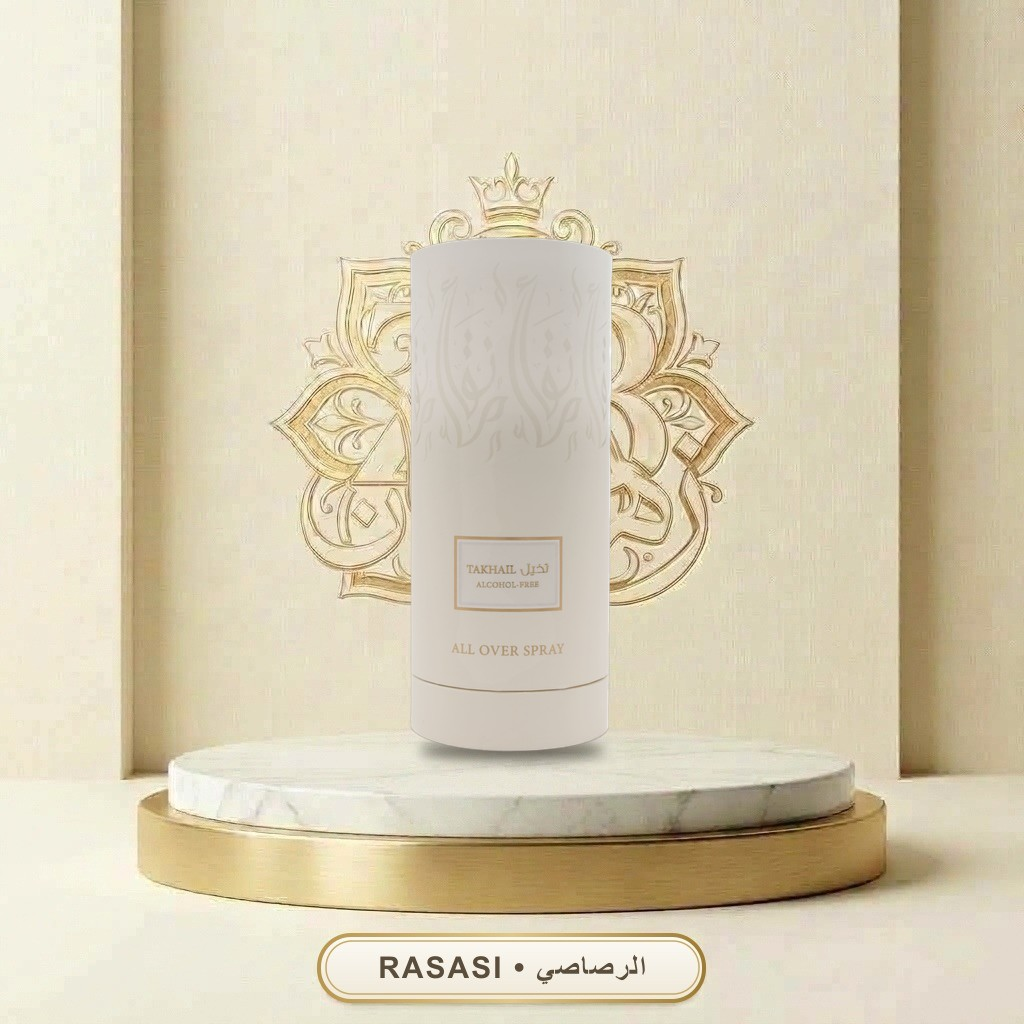
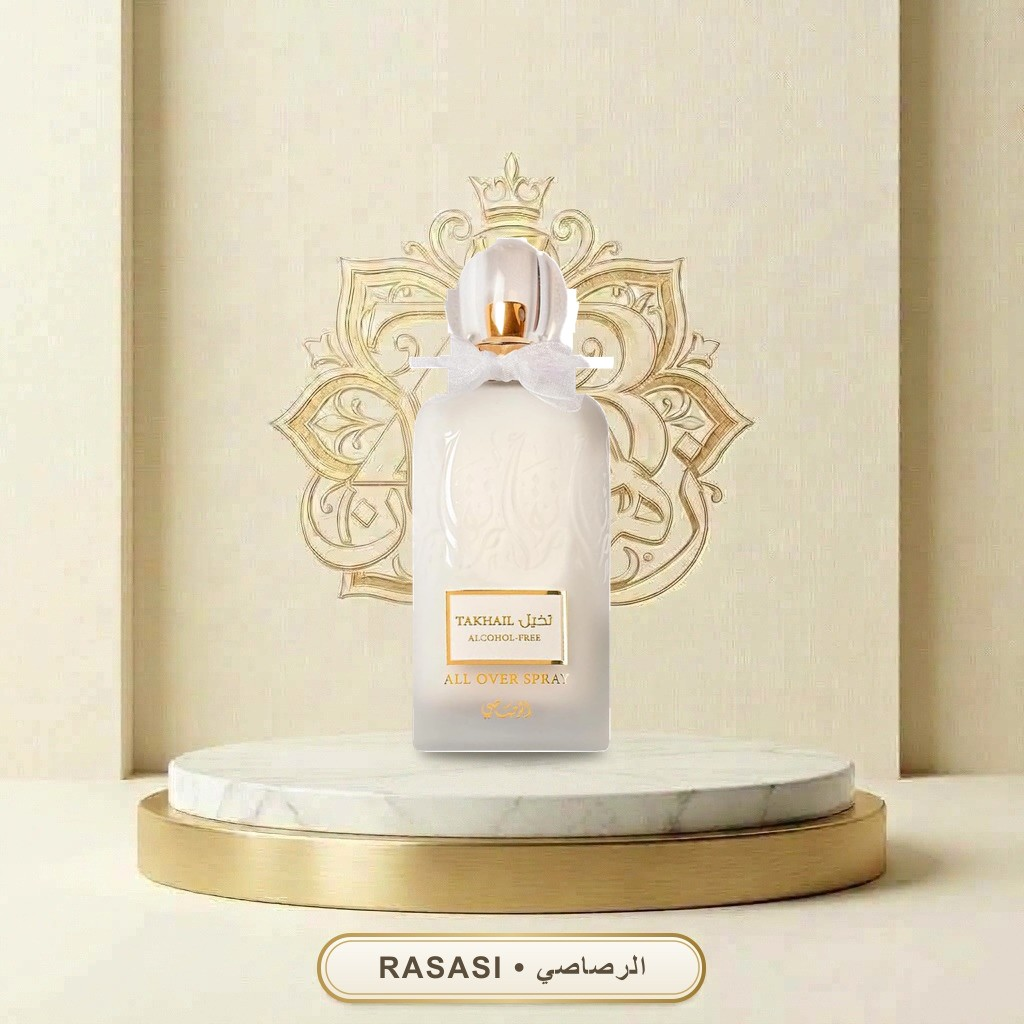
Takhail from the owner's bottle photo; clean Miss Arrogate 25 ml cap
- Takhail: the owner uploaded a photo of the bottle itself; it is kept as
  public/images/sources/rasasi_1593535954.webp and used as cutoutSource
  instead of the tube box
- Miss Arrogate 25 ml: the cut-out kept a white sliver of backdrop on top
  of the flat cap; new cutoutTrimTop flag removes it

Claude-Session: https://claude.ai/code/session_01STVvvRzREoL5Wd8ZBCeqVE

Changed region(s): [[0.375, 0.2188, 0.625, 0.75], [0.4062, 0.7188, 0.4688, 0.75]]

diff --git a/tools/images/render.py b/tools/images/render.py
@@ -272,7 +272,7 @@ def keep_largest(alpha):
 
 
 def cutout(img, mirror=False, solid=False, mirror_fill_=False, body_clip=None, largest=False,
-           trim_bottom=None):
+           trim_bottom=None, trim_top=None):
     from rembg import remove
     img.thumbnail((1200, 1200), Image.LANCZOS)
     rgb = flatten(img)
@@ -297,6 +297,11 @@ def cutout(img, mirror=False, solid=False, mirror_fill_=False, body_clip=None, l
     if solid:
         alpha = solidify(alpha)
         cut = rgb.convert("RGBA")  # the model blanks colours it dropped; use the photo's
+    if trim_top:
+        # Drop a sliver of backdrop the model kept on top of a flat cap.
+        rows = np.where(alpha.max(axis=1) > 64)[0]
+        if len(rows):
+            alpha[:rows[0] + int((rows[-1] - rows[0]) * trim_top)] = 0
     if trim_bottom:
         # Drop a stand or plinth the bottle was photographed on.
         rows = np.where(alpha.max(axis=1) > 64)[0]
@@ -344,7 +349,8 @@ def showcase(item, house):
                        mirror_fill_=bool(item.get("cutoutMirrorFill")),
                        body_clip=item.get("cutoutClipBodyFrom"),
                        largest=bool(item.get("cutoutKeepLargest")),
-                       trim_bottom=item.get("cutoutTrimBottom"))
+                       trim_bottom=item.get("cutoutTrimBottom"),
+                       trim_top=item.get("cutoutTrimTop"))
     bg = Image.open(IMAGES / HOUSES[house][2]).convert("RGBA").resize((SIZE, SIZE), Image.LANCZOS)
     scale = min(BOTTLE_BOX[0] / cut.width, BOTTLE_BOX[1] / cut.height)
     cut = cut.resize((max(1, round(cut.width * scale)), max(1, round(cut.height * scale))), Image.LANCZOS)

diff --git a/tools/images/README.md b/tools/images/README.md
@@ -31,6 +31,7 @@ Some photos need a hint in the catalog entry before rendering:
 - `cutoutClipBodyFrom: 0.4` does the same for the body only (from 40% of the height down), keeping an asymmetric cap.
 - `cutoutKeepLargest: true` drops props lying next to the bottle (wood chips, petals).
 - `cutoutTrimBottom: 0.08` cuts off a stand or plinth the bottle was photographed on (fraction of the height).
+- `cutoutTrimTop: 0.035` cuts a sliver of backdrop the model kept on top of a flat cap.
 - `cutoutCrop: [l, t, r, b]` crops the source photo (fractions) before the cutout, e.g. to leave out the box next to a bottle.
 
 After rendering, run `python tools/images/thumbs.py` to refresh the card thumbnails. Image URLs carry `?v=<content hash>` so browsers never show a cached older picture; `python tools/images/versions.py` re-syncs them after manual image edits.
